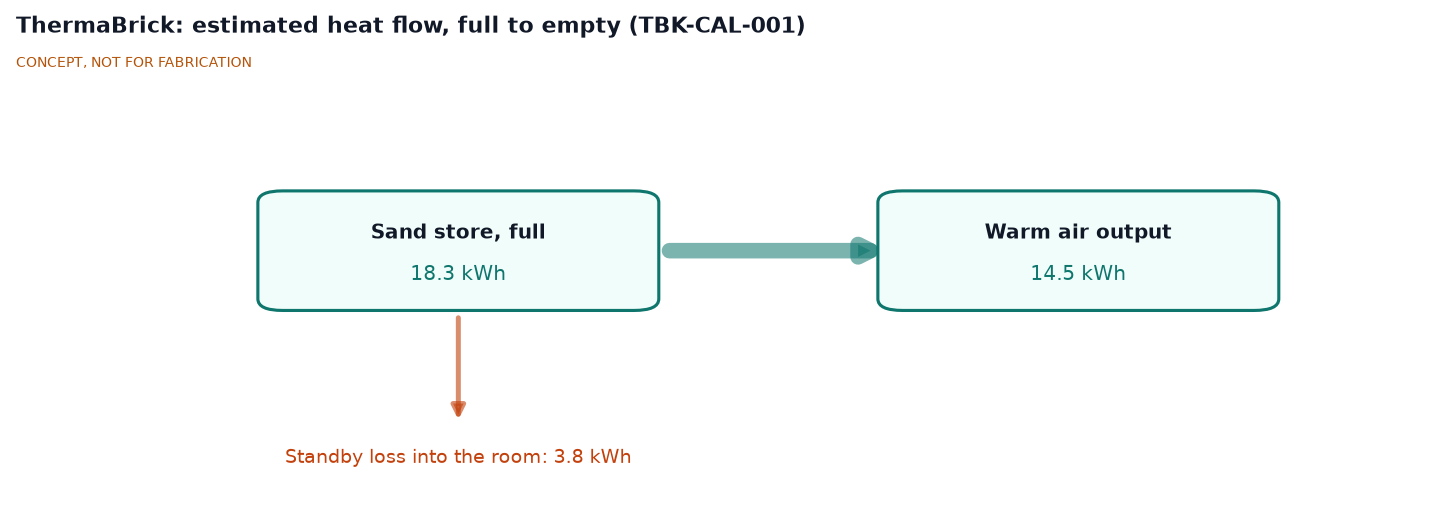
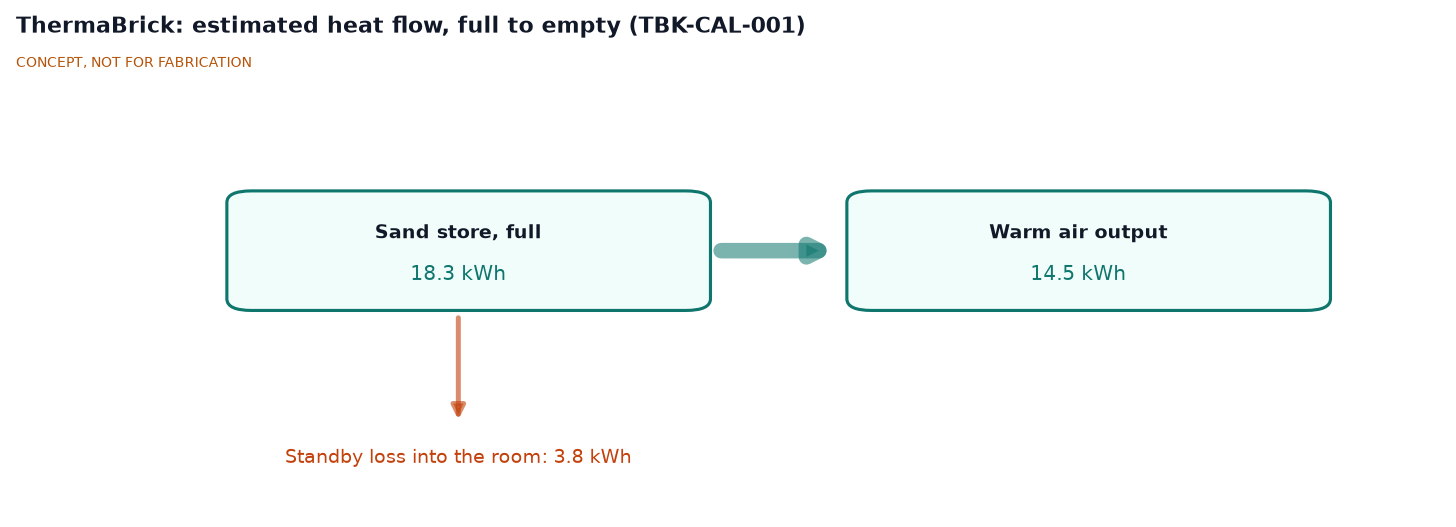
Adopt portfolio kit v1.3.1
Syncs .kit, CLAUDE.md and .claude/commands from wastewise-scan@b033da6,
at Amish's request. Concept media regenerated; only media/flow.png
changed (new layout, same values). Recorded in
build-log/2026-09-24-kit-1-3-1.md.

diff --git a/.kit/concept.py b/.kit/concept.py
@@ -205,24 +205,26 @@ def export_web_model(parts, media_dir="media", poster="hero.png", title="3D mode
 
 
 def flow_diagram(stages, out, title, unit="kWh", losses=()):
-    """System or energy/material flow diagram.
+    """System, data, energy or material flow diagram. Values may be numbers (scaled arrows) or text labels.
     stages: [(name, value)] left to right; losses: [(after_stage_index, name, value)] drawn as branches down.
     Example: stages=[("Surplus PV", 21.9), ("Heaters", 21.9), ("Sand store", 18.3), ("Warm air", 14.5)],
              losses=[(2, "Standby loss", 3.8)]."""
     from matplotlib.patches import FancyBboxPatch, FancyArrowPatch
     n = len(stages)
-    fig, ax = plt.subplots(figsize=(10, 3.6), dpi=160)
+    fig, ax = plt.subplots(figsize=(max(10, 2.7 * n), 3.6), dpi=160)
     ax.set_xlim(0, n * 3); ax.set_ylim(-2.6, 2); ax.set_axis_off()
-    vmax = max(v for _, v in stages) or 1
+    nums = [v for _, v in stages if isinstance(v, (int, float))]
+    vmax = max(nums) if nums else 1
     for i, (name, v) in enumerate(stages):
         x = i * 3 + 0.3
-        ax.add_patch(FancyBboxPatch((x, -0.5), 1.9, 1.2, boxstyle="round,pad=0.02,rounding_size=0.12",
+        ax.add_patch(FancyBboxPatch((x - 0.15, -0.5), 2.3, 1.2, boxstyle="round,pad=0.02,rounding_size=0.12",
                                     fc="#F0FDFA", ec=ACCENT, lw=1.4))
-        ax.text(x + 0.95, 0.28, name, ha="center", va="center", fontsize=9, fontweight="bold", color=INK)
-        ax.text(x + 0.95, -0.15, f"{v:g} {unit}", ha="center", va="center", fontsize=9, color=ACCENT)
+        ax.text(x + 0.95, 0.28, name, ha="center", va="center", fontsize=8.5, fontweight="bold", color=INK)
+        label = f"{v:g} {unit}".strip() if isinstance(v, (int, float)) else str(v)
+        ax.text(x + 0.95, -0.15, label, ha="center", va="center", fontsize=9, color=ACCENT)
         if i < n - 1:
-            w = 1 + 6 * v / vmax
-            ax.add_patch(FancyArrowPatch((x + 1.95, 0.1), (x + 3.05, 0.1), arrowstyle="-|>", mutation_scale=14,
+            w = 1 + 6 * v / vmax if isinstance(v, (int, float)) else 3
+            ax.add_patch(FancyArrowPatch((x + 2.2, 0.1), (x + 2.8, 0.1), arrowstyle="-|>", mutation_scale=14,
                                          lw=w, color="#0F766E", alpha=0.55))
     for i, name, v in losses:
         x = i * 3 + 0.3 + 0.95
@@ -237,20 +239,24 @@ def flow_diagram(stages, out, title, unit="kWh", losses=()):
 
 
 def render_all(parts, project, title, dwg_no, key_figures, author="Amish Chadha", date=None,
-               media_dir="media", rev="P1", cut=True, scale_figure=True, web_model=True, flow=None):
-    """flow: optional dict for flow_diagram, e.g. {"stages": [...], "losses": [...], "unit": "kWh"}."""
+               media_dir="media", rev="P1", cut=True, scale_figure=True, web_model=True, flow=None, context=(), cut_exclude=()):
+    """flow: optional dict for flow_diagram, e.g. {"stages": [...], "losses": [...], "unit": "kWh"}.
+    cut_exclude: part names left out of the cutaway (e.g. a strap that hides the section).
+    context: Parts shown only in the hero render for scale (e.g. a forearm for a wearable). For small
+    objects set scale_figure=False and pass a context part instead of the 1.75 m person."""
     import datetime, sys
     sys.path.insert(0, str(Path(__file__).parent))
     from drawing import Sheet, project_views
     from build123d import Compound
     date = date or datetime.date.today().isoformat()
     md = ROOT / media_dir
-    shown = with_scale_figure(parts) if scale_figure else parts
+    shown = (with_scale_figure(parts) if scale_figure else parts) + list(context)
     hero = _render(shown, md / "hero.png", title=f"{project}",
-                   note="Grey figure: 1.75 m person for scale" if scale_figure else None)
+                   note="Grey figure: 1.75 m person for scale" if scale_figure else
+                   ("Grey: " + ", ".join(c.name for c in context) + " for scale" if context else None))
     outs = {"hero": hero}
     if cut:
-        outs["cutaway"] = _render(cutaway_parts(parts), md / "cutaway.png", azim=-90, elev=18,
+        outs["cutaway"] = _render(cutaway_parts([p for p in parts if p.name not in cut_exclude]), md / "cutaway.png", azim=-90, elev=18,
                                   title=f"{project}: cutaway")
     if any(any(p.explode) for p in parts):
         outs["exploded"] = _render(parts, md / "exploded.png", offsets=True, labels=True,
@@ -261,14 +267,15 @@ def render_all(parts, project, title, dwg_no, key_figures, author="Amish Chadha"
         outs["flow"] = flow_diagram(flow["stages"], md / "flow.png", f"{project}: {flow.get('title', 'system flow')}",
                                     flow.get("unit", "kWh"), flow.get("losses", ()))
     views = project_views(Compound(children=[p.shape for p in parts]), md / "_views")
-    if scale_figure:  # figure only in the isometric view, so it never overlaps orthographic views
+    if scale_figure or context:  # scale reference only in the isometric view, never overlapping orthographic views
         views["iso"] = project_views(Compound(children=[p.shape for p in shown]), md / "_views_fig")["iso"]
     s = Sheet(project=project, title=title, dwg_no=dwg_no, rev=rev, author=author, date=date,
               theme="blueprint", material="Massing model for concept communication",
               revisions=[(rev, "Concept sheet", date, "".join(w[0] for w in author.split()))])
     s.add_ortho(views)
     s.add_svg(views["iso"], 276, 32, 140, 118, label="Isometric view",
-              sublabel="Not to scale; figure is a 1.75 m person" if scale_figure else "Not to scale")
+              sublabel="Not to scale; figure is a 1.75 m person" if scale_figure else
+              ("Not to scale; grey is for scale" if context else "Not to scale"))
     s.add_notes("Key figures", key_figures, x=276, y=168, width=140)
     s.save(md / "concept-blueprint")
     outs["blueprint"] = md / "concept-blueprint.png"

diff --git a/build-log/2026-09-24-kit-1-3-1.md b/build-log/2026-09-24-kit-1-3-1.md
@@ -1,0 +1,54 @@
+# 2026-09-24: Kit 1.3.1
+
+| Field | Entry |
+| --- | --- |
+| Date | 2026-09-24 |
+| Author | Amish Chadha |
+| Stage or procedure | Project record: portfolio kit 1.3.1 |
+| Hours | |
+| Room temperature | Not applicable |
+| Repo commit | `bb3fb78` (before this change) |
+
+## Goal
+
+Sync the portfolio kit from 1.3.0 to 1.3.1, at Amish's request.
+
+## Work done
+
+1. Synced `.kit/`, the root `CLAUDE.md` and `.claude/commands/` from `wastewise-scan` at commit `b033da6`, the commit that released 1.3.1. The kit adds context parts for small objects, cutaway exclusions and text labels in flow diagrams, and changes the flow diagram layout.
+2. Regenerated the concept media with `cad/src/concept_media.py`. Only `media/flow.png` changed, from the new layout; its values are unchanged. The concept sheet TBK-DWG-006 is unchanged and stays at Rev P2. ThermaBrick keeps the 1.75 m person for scale, since the unit is floor-standing.
+
+## Records
+
+| Quantity | Expected | Measured | OK |
+| --- | --- | --- | --- |
+| Kit version | 1.3.1, identical to `wastewise-scan@b033da6` | `diff -r` shows no differences in `.kit/`, `CLAUDE.md` or `.claude/commands/` | Yes |
+| Kit check | Passes | `render.py --check` exit code 0 | Yes |
+
+## Deviations
+
+| What differs | Why | Document to update | Done |
+| --- | --- | --- | --- |
+| None | | | |
+
+## Problems and fixes
+
+None.
+
+## Parts and cost
+
+| BOM item | Qty | BOM estimate (USD) | Paid (USD) | Supplier |
+| --- | --- | --- | --- | --- |
+| None | | | | |
+
+## Photos
+
+None.
+
+## Safety
+
+None.
+
+## Next steps
+
+- [ ] None from this change. TRL stays at 3, the portfolio cap.

diff --git a/docs/REVIEW.md b/docs/REVIEW.md
@@ -154,10 +154,11 @@ These were never labeled as accepted, but Amish has not reviewed them. All live 
 3. Choose a path on the R3 charge-time miss, or wait for the test article's measurements.
 4. Decide whether 47 % daily standby loss is acceptable, or adopt the loss-reduction options.
 5. Confirm the controller board stays deferred.
-6. Done after the review: the U-tube solid is fixed, TRL 3 is recorded, and the kit is on 1.3.0 with `trl_target: 3`.
+6. Done after the review: the U-tube solid is fixed, TRL 3 is recorded, and the kit is on 1.3.1 with `trl_target: 3`.
 7. Install KiCad properly.
 8. Done: renamed to `docs/REVIEW.md` at Amish's request, as kit 1.2.0 expects.
 
 ## 7. Log
 
 - 2026-09-24: kit synced to 1.3.0 at Amish's request. Concept media regenerated with a scale figure, a 3D viewer (`media/model.glb`, `media/viewer.html`) and a heat flow diagram (`media/flow.png`, TBK-CAL-001 estimates); TBK-DWG-006 reissued at Rev P2. Recorded in `build-log/2026-09-24-kit-1-3-0.md`.
+- 2026-09-24: kit synced to 1.3.1 at Amish's request. Only `media/flow.png` changed (new layout, same values). Recorded in `build-log/2026-09-24-kit-1-3-1.md`.

diff --git a/.kit/CLAUDE.md b/.kit/CLAUDE.md
@@ -46,7 +46,7 @@ Every repo needs visuals that explain the idea. Generate them from `cad/src/conc
 | `media/exploded.png` | Exploded view with numbered callouts matching the BOM | Recommended |
 | `media/flow.png` | System, energy or material flow diagram | When the concept moves energy or material |
 
-At TRL 2 the model may be a simple massing model: correct proportions and main parts, not detailed geometry. Label concept media "CONCEPT, NOT FOR FABRICATION". Mark estimated flow values as estimates.
+For small objects (wearables, handheld tools) use a context part such as a hand or forearm instead of the 1.75 m person (`scale_figure=False, context=[...]`); see `tremortrace` for a worked example. At TRL 2 the model may be a simple massing model: correct proportions and main parts, not detailed geometry. Label concept media "CONCEPT, NOT FOR FABRICATION". Mark estimated flow values as estimates.
 
 ## 5a. Session commands
 

diff --git a/CLAUDE.md b/CLAUDE.md
@@ -46,7 +46,7 @@ Every repo needs visuals that explain the idea. Generate them from `cad/src/conc
 | `media/exploded.png` | Exploded view with numbered callouts matching the BOM | Recommended |
 | `media/flow.png` | System, energy or material flow diagram | When the concept moves energy or material |
 
-At TRL 2 the model may be a simple massing model: correct proportions and main parts, not detailed geometry. Label concept media "CONCEPT, NOT FOR FABRICATION". Mark estimated flow values as estimates.
+For small objects (wearables, handheld tools) use a context part such as a hand or forearm instead of the 1.75 m person (`scale_figure=False, context=[...]`); see `tremortrace` for a worked example. At TRL 2 the model may be a simple massing model: correct proportions and main parts, not detailed geometry. Label concept media "CONCEPT, NOT FOR FABRICATION". Mark estimated flow values as estimates.
 
 ## 5a. Session commands
 

diff --git a/build-log/README.md b/build-log/README.md
@@ -23,6 +23,7 @@ Conventions:
 ## Entries
 
 <!-- index start -->
+- [2026-09-24: Kit 1.3.1](2026-09-24-kit-1-3-1.md)
 - [2026-09-24: Kit 1.3.0](2026-09-24-kit-1-3-0.md)
 - [2026-09-24: Kit 1.2.0 and TRL target capped at 3](2026-09-24-kit-1-2-0.md)
 - [2026-09-24: TRL 3 recorded](2026-09-24-trl-3-recorded.md)
